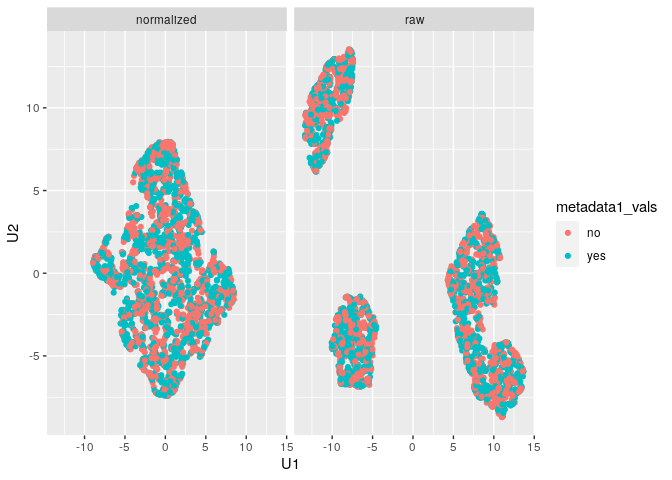
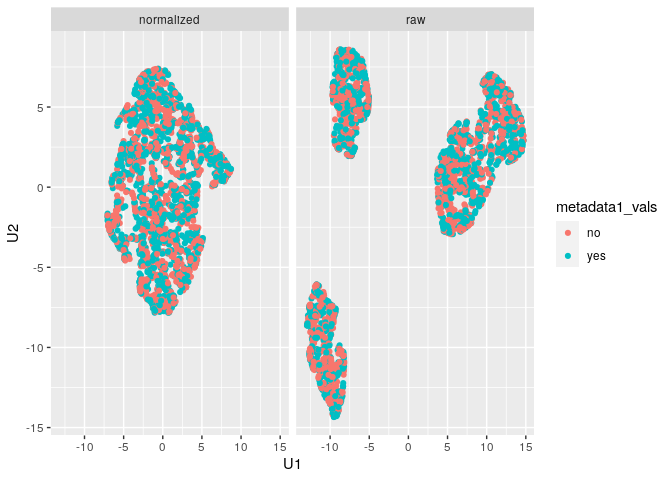
updated README with discordance

diff --git a/README.md b/README.md
@@ -101,15 +101,15 @@ summary(mx_norm)
 #>         raw              32.490                  22.525            0
 ```
 
-## Otsu agreement scores with `run_otsu_agreement()`
+## Otsu discordance scores with `run_otsu_discordance()`
 
-Using the above normalized data, we can run an Otsu agreement score
+Using the above normalized data, we can run an Otsu discordance score
 analysis to determine how well our normalization method performs (here,
-we look for lower agreement scores to distinguish better performing
+we look for lower discordance scores to distinguish better performing
 methods):
 
 ``` r
-mx_otsu = run_otsu_agreement(mx_norm,
+mx_otsu = run_otsu_discordance(mx_norm,
                         table="both",
                         threshold_override = NULL,
                         plot_out = FALSE)
@@ -120,13 +120,20 @@ the following form:
 
 ``` r
 head(mx_otsu$otsu_data)
-#>   slide_id       marker table slide_threshold marker_threshold agreement_score
-#> 1   slide1 marker1_vals   raw        12.01758         54.89844       0.4506667
-#> 2   slide2 marker1_vals   raw        20.01367         54.89844       0.4306667
-#> 3   slide3 marker1_vals   raw        87.05664         54.89844       0.2573333
-#> 4   slide4 marker1_vals   raw        44.00391         54.89844       0.3386667
-#> 5   slide1 marker2_vals   raw        19.00977         52.90039       0.5333333
-#> 6   slide2 marker2_vals   raw        19.99219         52.90039       0.5320000
+#>   slide_id       marker table slide_threshold marker_threshold
+#> 1   slide1 marker1_vals   raw        12.01758         54.89844
+#> 2   slide2 marker1_vals   raw        20.01367         54.89844
+#> 3   slide3 marker1_vals   raw        87.05664         54.89844
+#> 4   slide4 marker1_vals   raw        44.00391         54.89844
+#> 5   slide1 marker2_vals   raw        19.00977         52.90039
+#> 6   slide2 marker2_vals   raw        19.99219         52.90039
+#>   discordance_score
+#> 1         0.4506667
+#> 2         0.4306667
+#> 3         0.2573333
+#> 4         0.3386667
+#> 5         0.5333333
+#> 6         0.5320000
 ```
 
 And we can use `summary()` to capture the following attributes for the
@@ -145,10 +152,10 @@ summary(mx_otsu)
 #>  normalized              34.565                  24.111            0
 #>         raw              32.490                  22.525            0
 #> 
-#> Otsu agreement scores:
-#>       table mean_agreement sd_agreement
-#>  normalized          0.054        0.071
-#>         raw          0.373        0.141
+#> Otsu discordance scores:
+#>       table mean_discordance sd_discordance
+#>  normalized            0.054          0.071
+#>         raw            0.373          0.141
 ```
 
 ## UMAP dimension reduction with `run_reduce_umap()`
@@ -173,19 +180,19 @@ later):
 ``` r
 head(mx_umap$umap_data)
 #>      marker1_vals marker2_vals marker3_vals metadata1_vals slide_id table
-#> 2459           57           93           87             no   slide4   raw
-#> 122            15           20           32             no   slide1   raw
-#> 1839           88           97           66            yes   slide3   raw
-#> 825            21           15           40            yes   slide2   raw
-#> 1907           88           98           53            yes   slide3   raw
-#> 1733           91           93           62            yes   slide3   raw
+#> 1867           88           98           41            yes   slide3   raw
+#> 2661           47           88           90            yes   slide4   raw
+#> 473            11           19           29            yes   slide1   raw
+#> 1455           18           21           37             no   slide2   raw
+#> 2164           95           92           39             no   slide3   raw
+#> 513            14           26           22            yes   slide1   raw
 #>              U1         U2
-#> 2459  -9.967970 -4.5640162
-#> 122    6.922789 -4.0093535
-#> 1839 -11.611216  7.2588440
-#> 825    5.300562 -0.7469739
-#> 1907 -11.374983 10.2744428
-#> 1733 -11.920742  9.1107894
+#> 1867  -9.328209 -12.005757
+#> 2661  -7.143563   7.838385
+#> 473   11.345825   6.596110
+#> 1455   4.665821   1.418042
+#> 2164 -10.477660 -12.198362
+#> 513   12.369611   3.899017
 ```
 
 And we can use `summary()` to capture the following attributes for the
@@ -204,15 +211,15 @@ summary(mx_umap)
 #>  normalized              34.565                  24.111            0
 #>         raw              32.490                  22.525            0
 #> 
-#> Otsu agreement scores:
-#>       table mean_agreement sd_agreement
-#>  normalized          0.054        0.071
-#>         raw          0.373        0.141
+#> Otsu discordance scores:
+#>       table mean_discordance sd_discordance
+#>  normalized            0.054          0.071
+#>         raw            0.373          0.141
 #> 
 #> Clustering consistency (UMAP):
 #>       table adj_rand_index cohens_kappa
-#>  normalized          0.050       -0.075
-#>         raw          0.894        0.291
+#>  normalized          0.053       -0.116
+#>         raw          0.847       -0.301
 ```
 
 ## Variance components analysis with `run_var_proportions()`
@@ -257,15 +264,15 @@ summary(mx_var)
 #>  normalized              34.565                  24.111            0
 #>         raw              32.490                  22.525            0
 #> 
-#> Otsu agreement scores:
-#>       table mean_agreement sd_agreement
-#>  normalized          0.054        0.071
-#>         raw          0.373        0.141
+#> Otsu discordance scores:
+#>       table mean_discordance sd_discordance
+#>  normalized            0.054          0.071
+#>         raw            0.373          0.141
 #> 
 #> Clustering consistency (UMAP):
 #>       table adj_rand_index cohens_kappa
-#>  normalized          0.050       -0.044
-#>         raw          0.623       -0.167
+#>  normalized          0.053       -0.023
+#>         raw          0.847       -0.299
 #> 
 #> Variance proportions (slide-level):
 #>       table  mean    sd
@@ -290,7 +297,7 @@ We can also visualize the results of the Otsu misclassification analysis
 stratified by slide and marker:
 
 ``` r
-plot_mx_agreement(mx_otsu)
+plot_mx_discordance(mx_otsu)
 ```
 
 <img src="man/figures/README-mx_misc-1.png" width="100%" />
